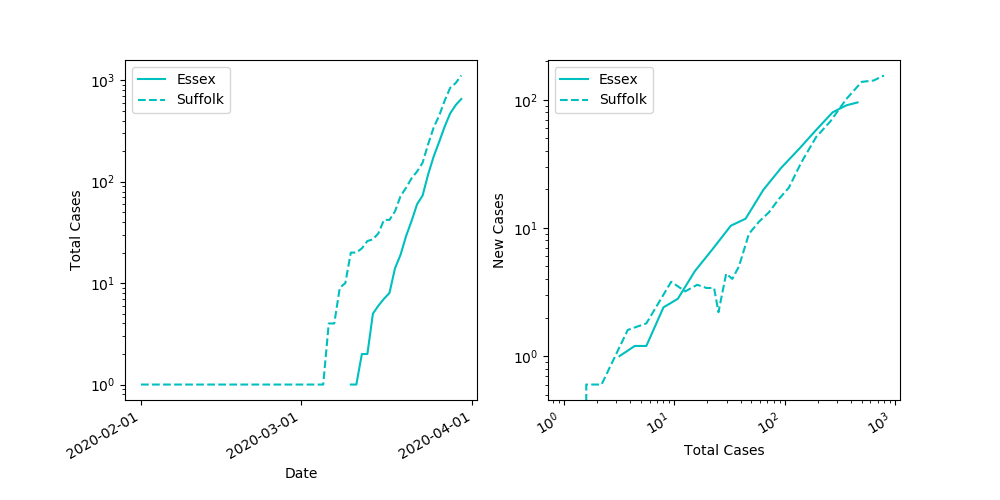
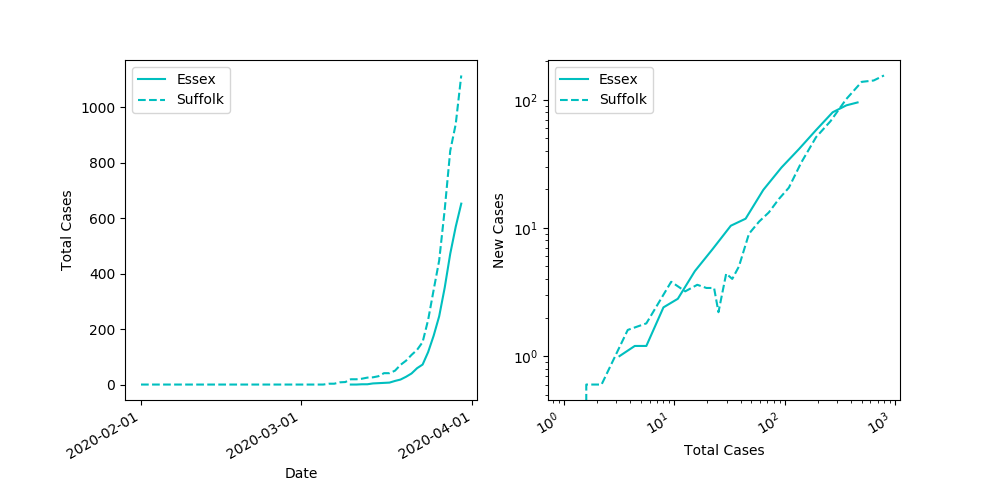
No more semilogy plot

diff --git a/county_watch.py b/county_watch.py
@@ -37,7 +37,7 @@ def plot_time_series(filename, counties):
         dates = county.data['date']
         xaxis = \
             [datetime.datetime.strptime(d, "%Y-%m-%d").date() for d in dates]
-        ax[0].semilogy(xaxis, county.data['cases'], county.style,
+        ax[0].plot(xaxis, county.data['cases'], county.style,
                    label=county.county)
         ax[1].loglog(county.data['roll_cases'], county.data['roll_new_cases'],
                 county.style, label=county.county)
